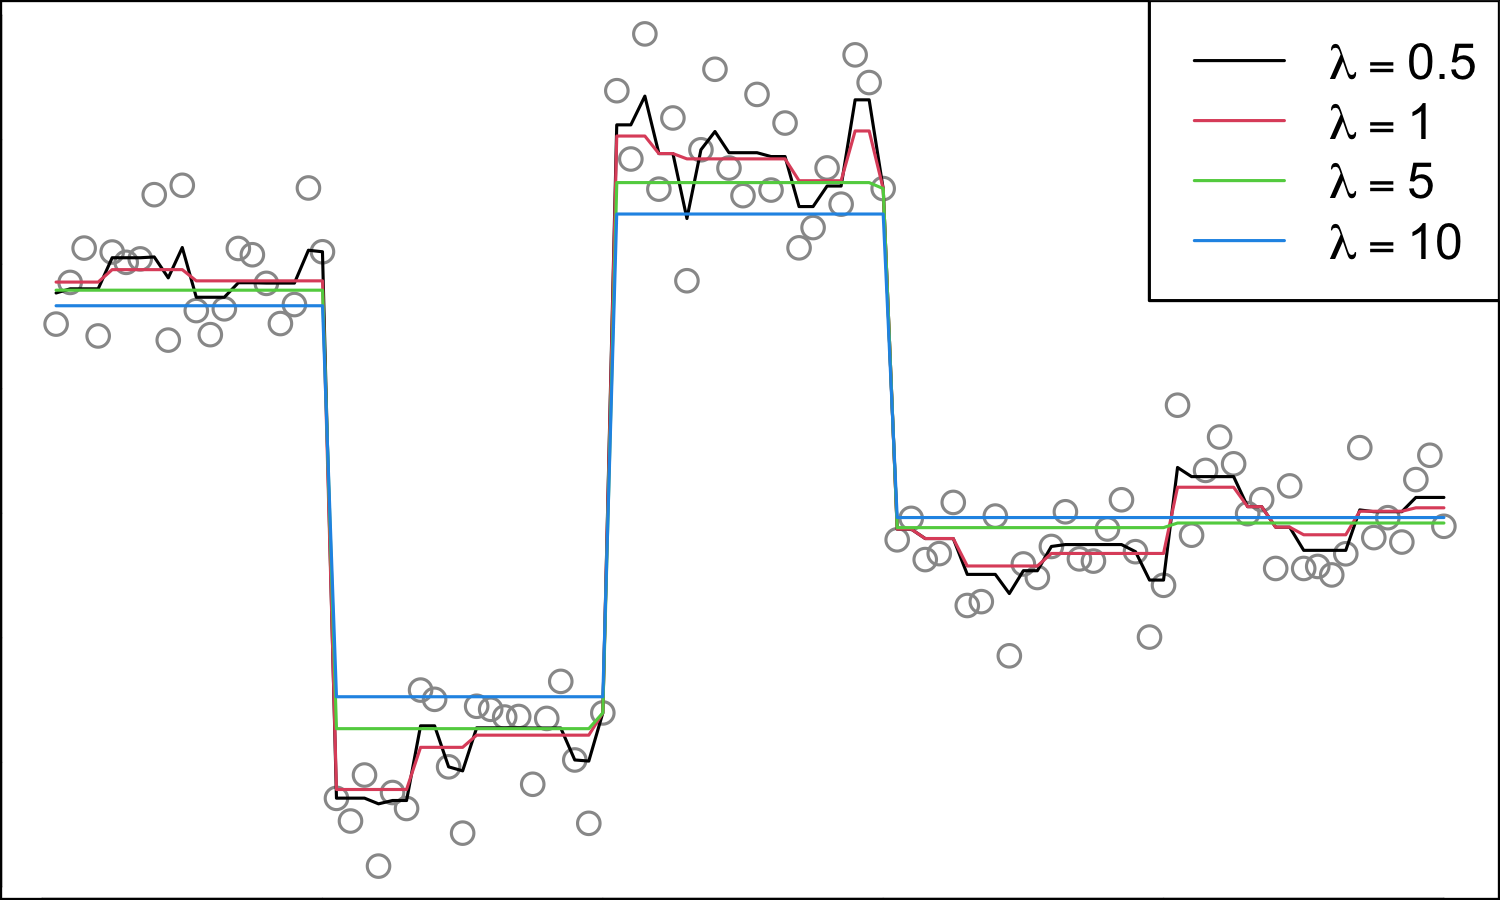
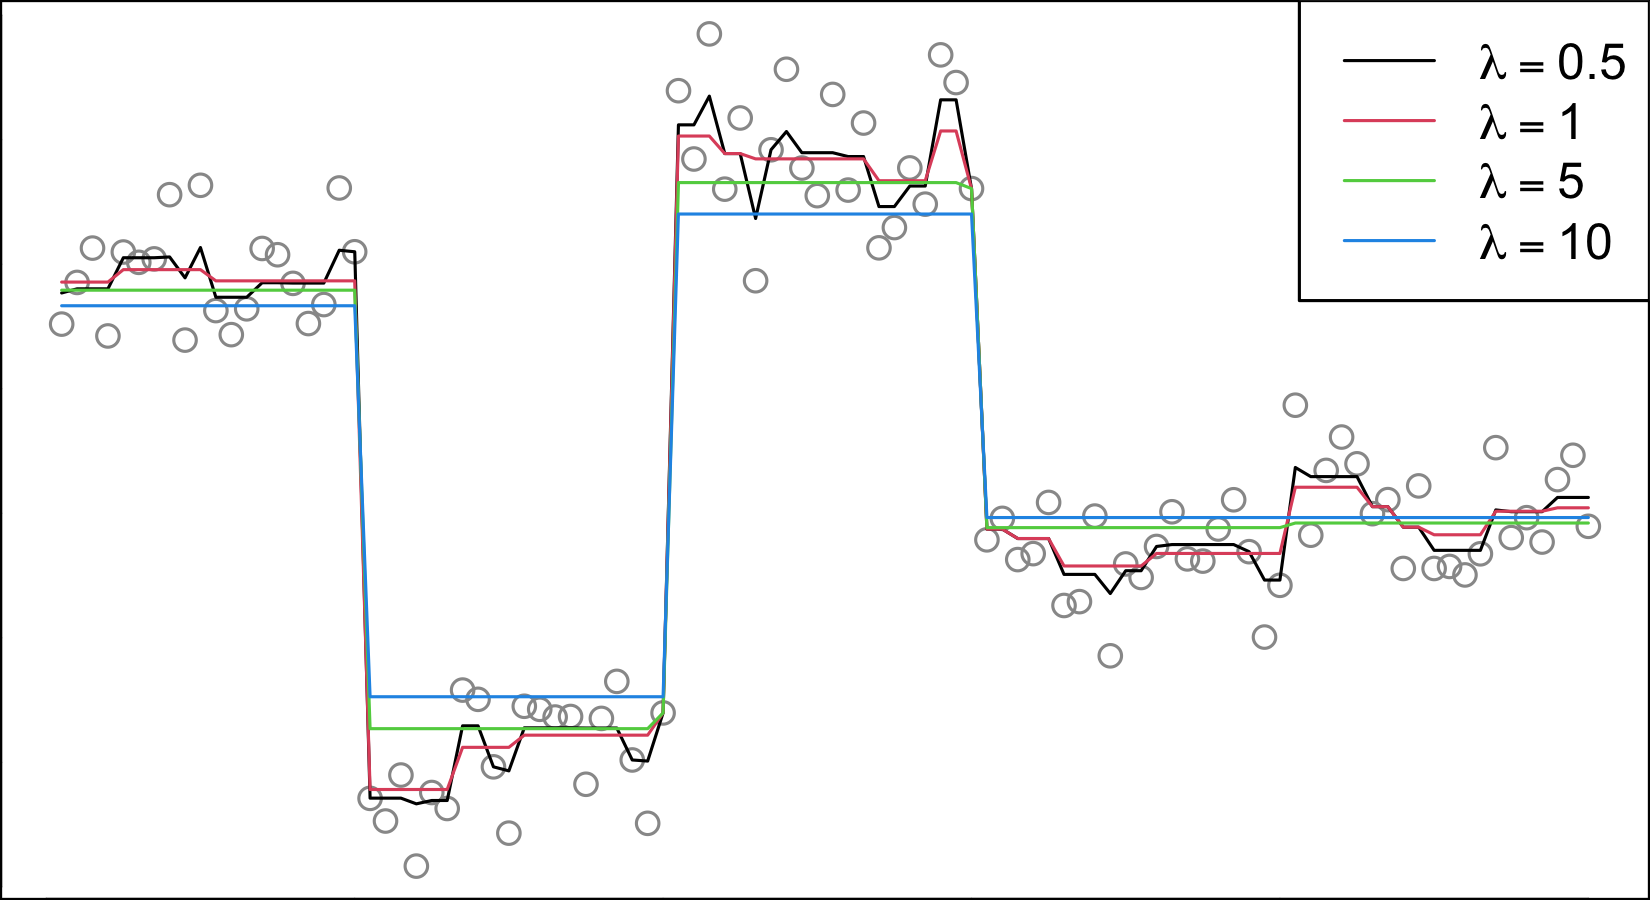
Doc updates

diff --git a/README.md b/README.md
@@ -18,7 +18,7 @@ the exact solution, for a given regularization level $\lambda$. You can
 also find a concise explanation of the algorithm at [this
 link](https://www.stat.berkeley.edu/~ryantibs/papers/tvdp.pdf).
 
-<img src="man/figures/README-tvd-1.png" width="65%" />
+<img src="man/figures/README-tvd-1.png" width="90%" />
 
 ## Installation
 
